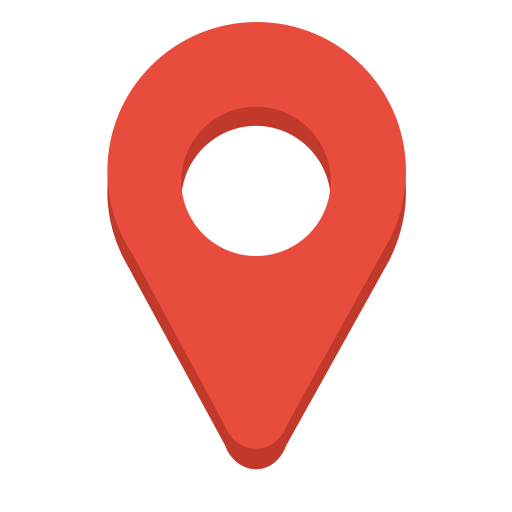
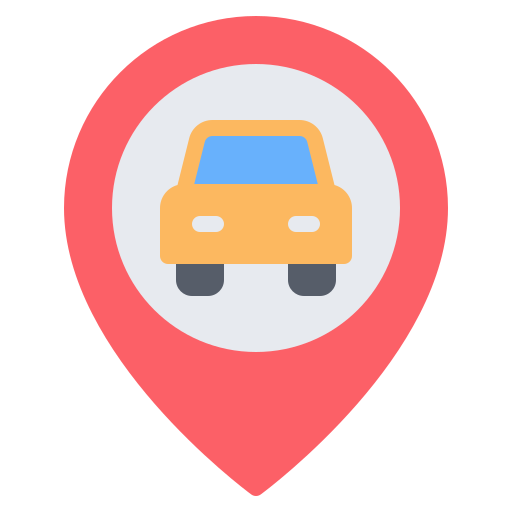
[add] modds

diff --git a/src/components/RealTimeMap.jsx b/src/components/RealTimeMap.jsx
@@ -27,8 +27,8 @@ const INITIAL_VIEW_STATE = {
 
 const CustomMarkerIcon = L.icon({
   iconUrl: markerIcon, // Ruta al icono personalizado
-  iconSize: [25, 41], // Tamaño del icono
-  iconAnchor: [12, 41], // Punto de anclaje del icono
+  iconSize: [50, 50], // Tamaño del icono
+  iconAnchor: [25, 45], // Punto de anclaje del icono
   popupAnchor: [0, -41], // Punto de anclaje del popup
 });
 
@@ -118,7 +118,7 @@ export default function RealTimeMap() {
 
   const getDevicePosition = () => {
     // Eliminar esta línea que limpia los marcadores cada vez que se llama a la función
-    setDevPosMarkers([]);
+    //setDevPosMarkers([]);
 
     var params = {
       DeviceId: deviceID,
@@ -130,30 +130,29 @@ export default function RealTimeMap() {
     client.getDevicePositionHistory(params, (err, data) => {
       if (err) console.log(err, err.stack);
       if (data && data.DevicePositions && data.DevicePositions.length > 0) {
-        const tempPosMarkers = data.DevicePositions.map(function (
-          devPos,
-          index
-        ) {
-          console.log("Posicion: ", devPos.Position[0], devPos.Position[1]);
+        const latestPosition =
+          data.DevicePositions[data.DevicePositions.length - 1];
 
-          return {
-            index: index,
-            long: devPos.Position[0],
-            lat: devPos.Position[1],
-          };
-        });
+        console.log(
+          "Posicion: ",
+          latestPosition.Position[0],
+          latestPosition.Position[1]
+        );
 
-        setDevPosMarkers(tempPosMarkers);
+        const newPosition = {
+          longitude: latestPosition.Position[0],
+          latitude: latestPosition.Position[1],
+        };
 
-        const pos = tempPosMarkers.length - 1;
+        setMarker(newPosition);
 
         setViewport({
-          longitude: tempPosMarkers[pos].long,
-          latitude: tempPosMarkers[pos].lat,
+          longitude: newPosition.longitude,
+          latitude: newPosition.latitude,
           zoom: 5,
         });
       } else {
-        // Si no se reciben coordenadas, mantener la vista inicial
+        // Si no se reciben coordenadas, mantener la vista inicial y la última posición conocida
         setViewport(INITIAL_VIEW_STATE);
         console.log("No se han recibido coordenadas del dispositivo.");
       }
@@ -172,19 +171,30 @@ export default function RealTimeMap() {
 
   return (
     <main>
-      <div>
-        <Track trackDevice={getDevicePosition} />
-      </div>
       <br />
-      <div>
+      <br />
+      <br />
+      <div style={{ height: "80vh", overflowY: "scroll" }}>
+        <div>
+          <button
+            onClick={getDevicePosition}
+            class="text-white py-2 px-4 uppercase rounded bg-green-400 hover:bg-green-500 shadow hover:shadow-lg font-medium transition transform hover:-translate-y-0.5"
+          >
+            Actualizar
+          </button>
+        </div>
+        <br />
         <MapContainer
-          center={[19.42847, -99.12766]}
-          zoom={18}
-          style={{ height: "100vh", width: "100%" }}
+          center={[viewport.latitude, viewport.longitude]}
+          zoom={16}
+          style={{ height: "80vh", width: "100%" }}
         >
           <TileLayer url="https://{s}.tile.openstreetmap.org/{z}/{x}/{y}.png" />
 
-          <Marker position={[19.42847, -99.12766]} icon={CustomMarkerIcon}>
+          <Marker
+            position={[marker.latitude, marker.longitude]}
+            icon={CustomMarkerIcon}
+          >
             {/* Contenido del popup */}
           </Marker>
         </MapContainer>

diff --git a/src/components/MapView.jsx b/src/components/MapView.jsx
@@ -1,6 +1,7 @@
 import React, { useState, useEffect } from "react";
 import { API } from "aws-amplify";
 import { graphqlOperation } from "aws-amplify";
+import markerIcon from "../images/marker.png";
 import { getIncidencia } from "../graphql/queries";
 import { useParams } from "react-router-dom";
 import { MapContainer, Marker, Popup, TileLayer } from "react-leaflet";
@@ -10,10 +11,10 @@ import icon from "leaflet/dist/images/marker-icon.png";
 import iconShadow from "leaflet/dist/images/marker-shadow.png";
 
 let DefaultIcon = L.icon({
-  iconUrl: icon,
-  shadowUrl: iconShadow,
-  iconAnchor: [12, 41],
-  popupAnchor: [1, -34],
+  iconUrl: markerIcon, // Ruta al icono personalizado
+  iconSize: [50, 50], // Tamaño del icono
+  iconAnchor: [25, 45], // Punto de anclaje del icono
+  popupAnchor: [0, -41], // Punto de anclaje del popup
 });
 
 L.Marker.prototype.options.icon = DefaultIcon;
@@ -46,7 +47,7 @@ export default function MapView() {
   return (
     <MapContainer
       center={ubicacion}
-      zoom={13}
+      zoom={16}
       style={{ height: 400, width: 700 }}
     >
       <TileLayer

diff --git a/src/components/Incidencia.jsx b/src/components/Incidencia.jsx
@@ -145,10 +145,6 @@ export default function Incidencias() {
 
         <div class="mt-12 flex flex-col justify-right">
           <p class="text-gray-600 text-right font-light lg:px-16">
-            An artist of considerable range, Ryan — the name taken by
-            Melbourne-raised, Brooklyn-based Nick Murphy — writes, performs and
-            records all of his own music, giving it a warm, intimate feel with a
-            solid groove structure. An artist of considerable range.
             <MapView></MapView>
           </p>
         </div>

diff --git a/src/views/ConductorPerfil.jsx b/src/views/ConductorPerfil.jsx
@@ -122,6 +122,11 @@ export default function ConductorPerfil() {
               >
                 Eliminar
               </button>
+              <Link to="/conductor/tiemporeal">
+                <button class="text-white py-2 px-4 uppercase rounded bg-green-400 hover:bg-green-500 shadow hover:shadow-lg font-medium transition transform hover:-translate-y-0.5">
+                  Ubicación en Tiempo Real
+                </button>
+              </Link>
             </div>
           </div>
 

diff --git a/src/Layout.jsx b/src/Layout.jsx
@@ -153,7 +153,7 @@ export function Layout() {
                           class="block px-4 py-2 text-sm text-gray-700 hover:bg-gray-100 dark:text-gray-300 dark:hover:bg-gray-600 dark:hover:text-white"
                           role="menuitem"
                         >
-                          Sign out
+                          Cerrar Sesión
                         </a>
                       </li>
                     </ul>

diff --git a/src/components/MyChart.jsx b/src/components/MyChart.jsx
@@ -13,7 +13,7 @@ const MyChart = ({ data }) => {
         labels: Object.keys(data),
         datasets: [
           {
-            label: "Incidencias por día",
+            label: "",
             data: Object.values(data),
             backgroundColor: "rgba(75, 192, 192, 0.6)",
           },

diff --git a/src/views/Incidencias.jsx b/src/views/Incidencias.jsx
@@ -195,7 +195,6 @@ export default function Incidencia() {
     fetchIncidencias();
     obtenerIncidenciasSemana();
     obtenerIncidenciasDia();
-
     calcularIncidenciasPorDia();
   }, [nuevaIncidencia]);
 
